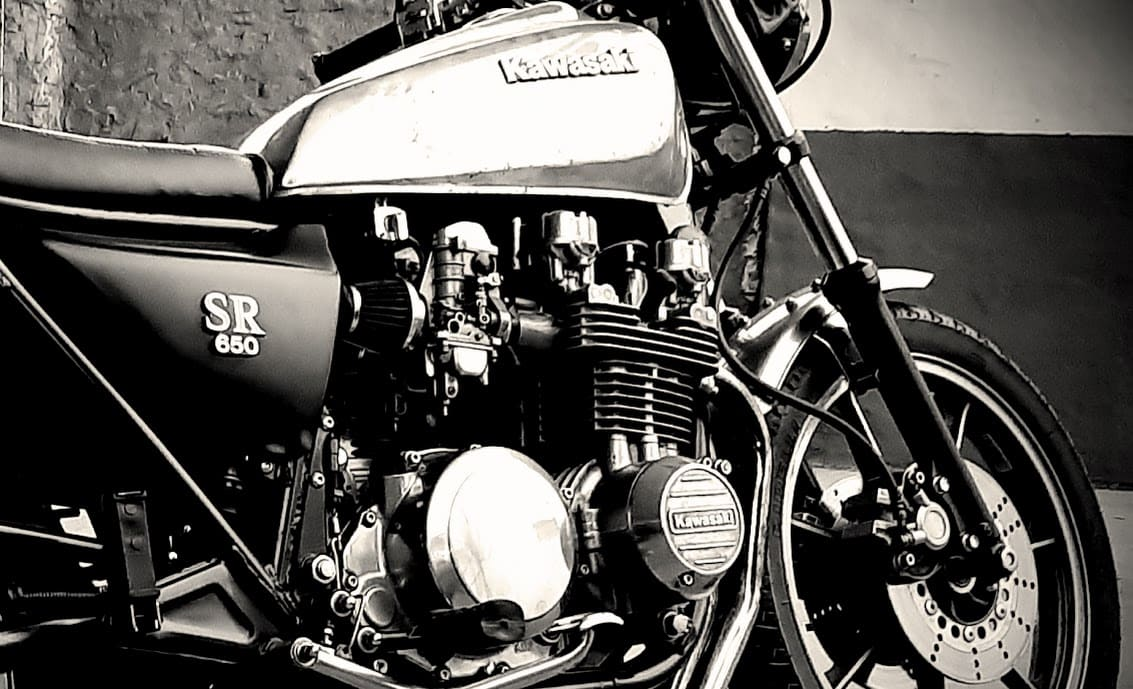
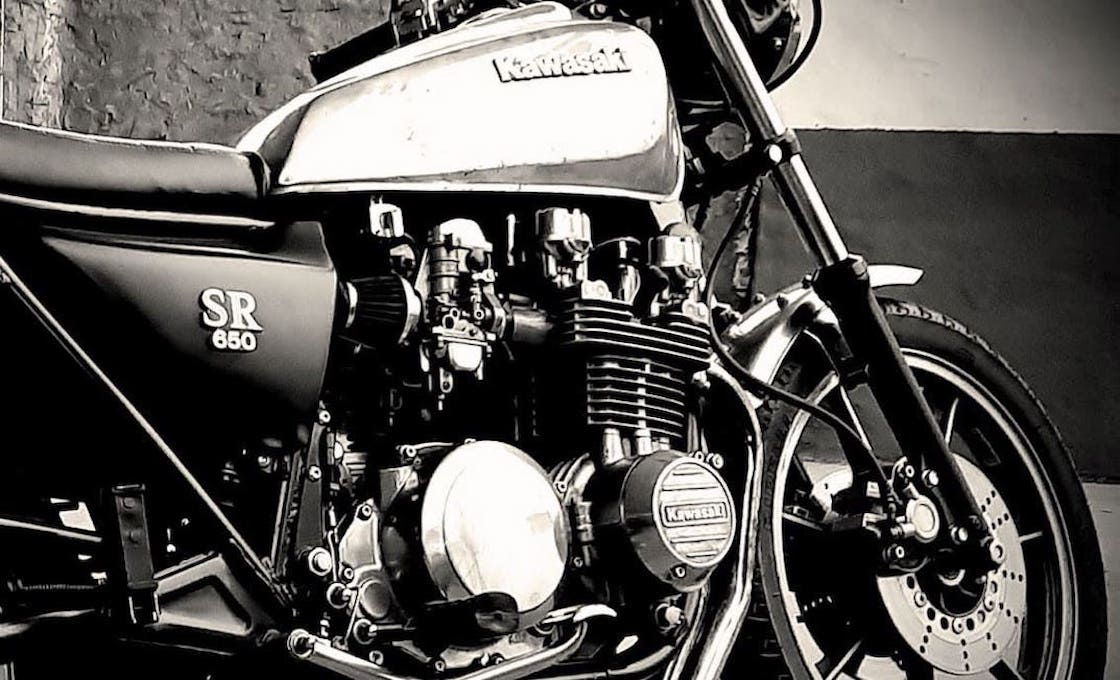
se cambio tamano imagenes

diff --git a/css/styles.css b/css/styles.css
@@ -276,7 +276,6 @@ a {
 }
 
 .portada-galeria__img {
-  height: 50vh;
   object-fit: cover;
 }
 
@@ -284,8 +283,8 @@ a {
 
 @media (min-width: 768px) {
   .portada-galeria__carousel {
-    height: 50vh;
-    width: 90vw;
+    height: 65vh;
+    width: 99vw;
   }
 }
 
